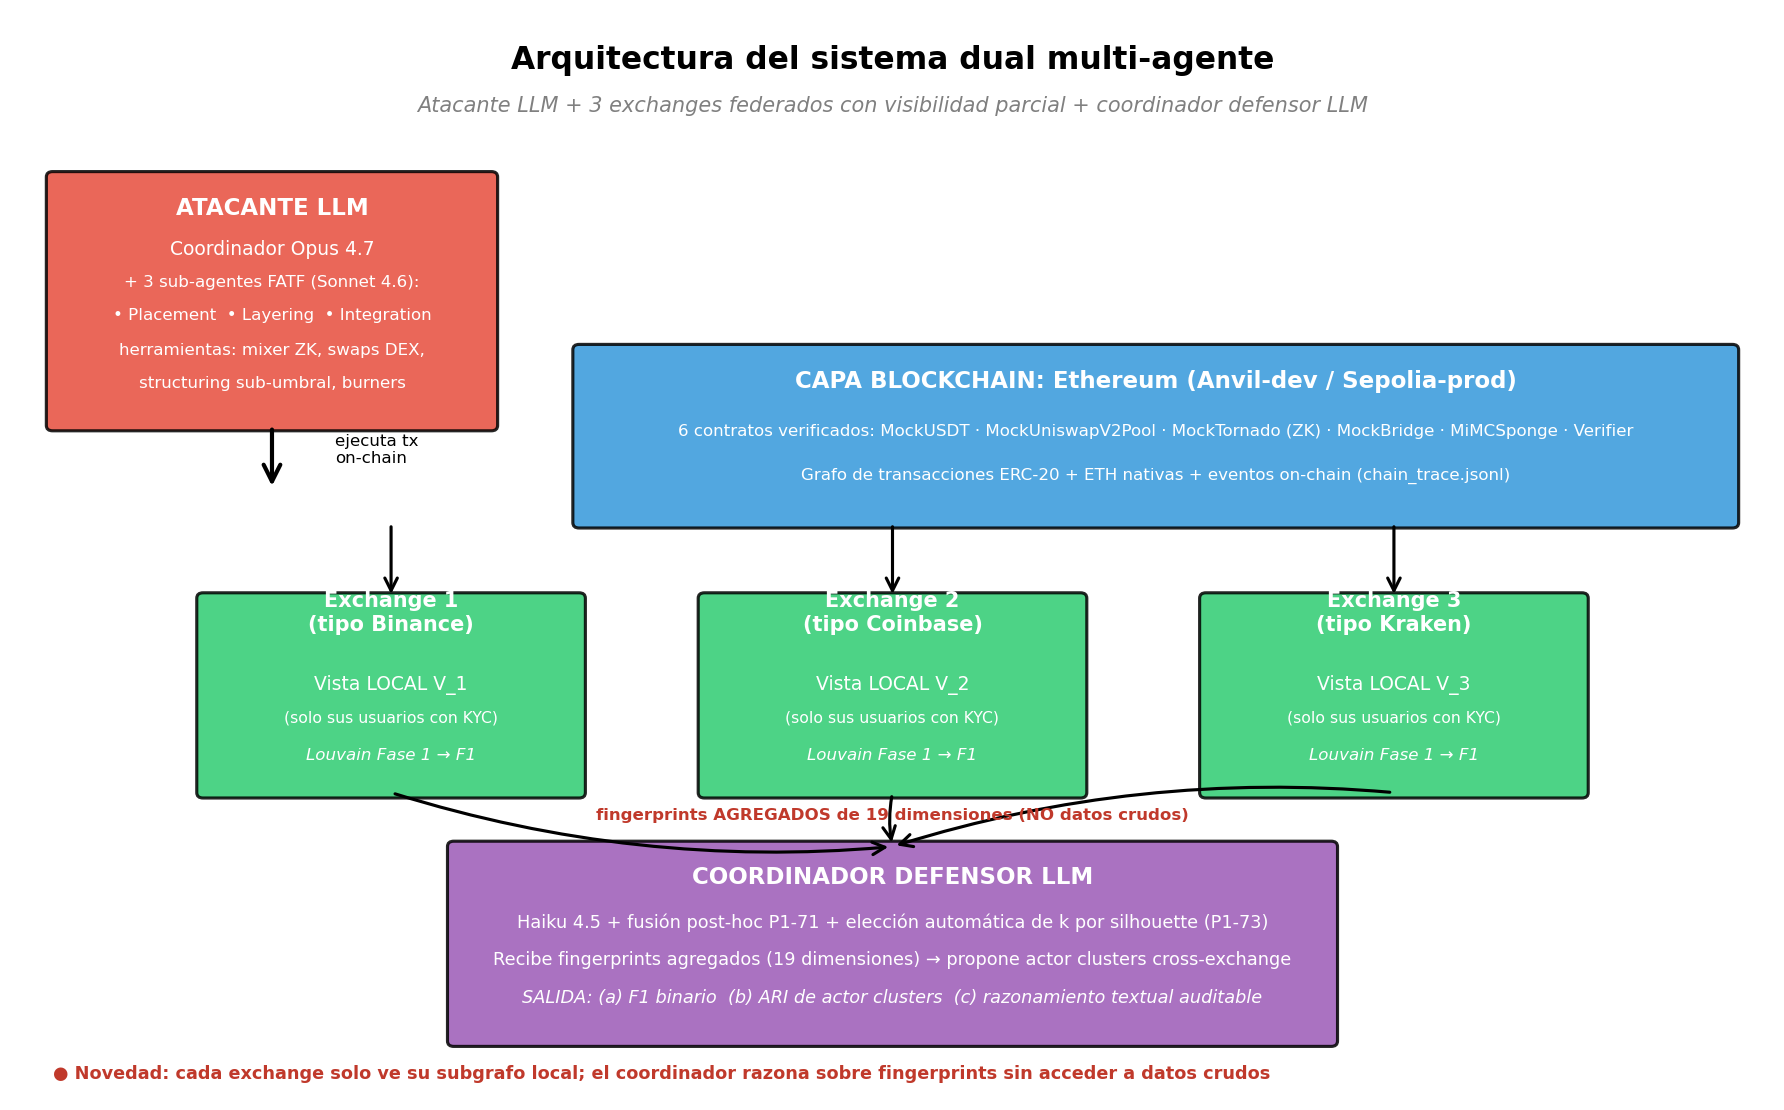
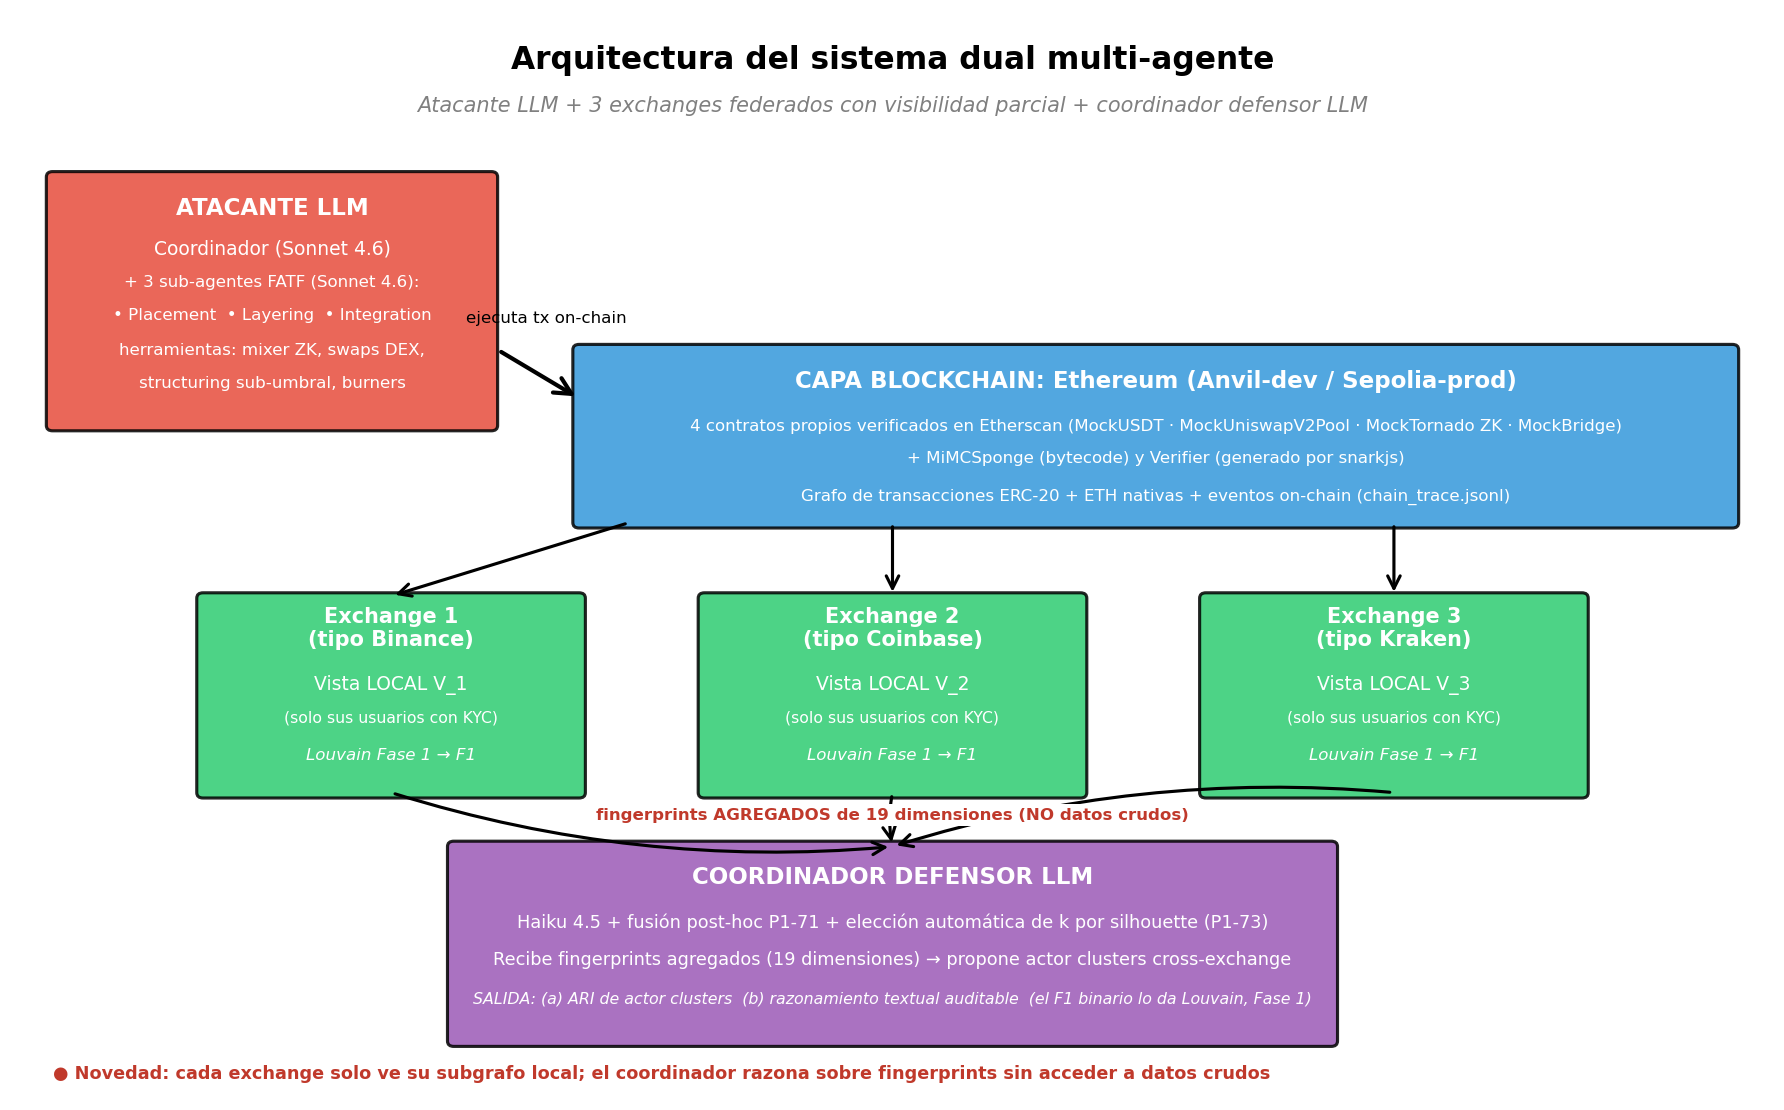
tfm: v3 — el atacante corrió sobre Sonnet 4.6 (no Opus), Powers of Tau local, Figuras 1-2 corregidas, ATTRIBUTIONS AMLWorld/AMLSim separados

diff --git a/scripts/figures/gen_architecture_fig_v2.py b/scripts/figures/gen_architecture_fig_v2.py
@@ -20,7 +20,7 @@ ax.text(7, 9.1, 'Atacante LLM + 3 exchanges federados con visibilidad parcial + 
 att = FancyBboxPatch((0.3, 6.2), 3.5, 2.3, boxstyle="round,pad=0.05", facecolor=c_attacker, edgecolor='black', linewidth=1.5, alpha=0.85)
 ax.add_patch(att)
 ax.text(2.05, 8.15, 'ATACANTE LLM', ha='center', fontsize=11, fontweight='bold', color='white')
-ax.text(2.05, 7.78, 'Coordinador Opus 4.7', ha='center', fontsize=9, color='white')
+ax.text(2.05, 7.78, 'Coordinador (Sonnet 4.6)', ha='center', fontsize=9, color='white')
 ax.text(2.05, 7.48, '+ 3 sub-agentes FATF (Sonnet 4.6):', ha='center', fontsize=8, color='white')
 ax.text(2.05, 7.18, '• Placement  • Layering  • Integration', ha='center', fontsize=8, color='white')
 ax.text(2.05, 6.85, 'herramientas: mixer ZK, swaps DEX,', ha='center', fontsize=8, color='white')
@@ -28,29 +28,31 @@ ax.text(2.05, 6.55, 'structuring sub-umbral, burners', ha='center', fontsize=8, 
 chain = FancyBboxPatch((4.5, 5.3), 9.2, 1.6, boxstyle="round,pad=0.05", facecolor=c_chain, edgecolor='black', linewidth=1.5, alpha=0.85)
 ax.add_patch(chain)
 ax.text(9.1, 6.55, 'CAPA BLOCKCHAIN: Ethereum (Anvil-dev / Sepolia-prod)', ha='center', fontsize=11, fontweight='bold', color='white')
-ax.text(9.1, 6.1, '6 contratos verificados: MockUSDT · MockUniswapV2Pool · MockTornado (ZK) · MockBridge · MiMCSponge · Verifier',
-        ha='center', fontsize=8, color='white')
-ax.text(9.1, 5.7, 'Grafo de transacciones ERC-20 + ETH nativas + eventos on-chain (chain_trace.jsonl)', ha='center', fontsize=8, color='white')
-ax.add_patch(FancyArrowPatch((2.05, 6.2), (2.05, 5.6), arrowstyle='->', mutation_scale=20, color='black', linewidth=2))
-ax.text(2.55, 5.85, 'ejecuta tx\non-chain', fontsize=8, color='black')
+ax.text(9.1, 6.15, '4 contratos propios verificados en Etherscan (MockUSDT · MockUniswapV2Pool · MockTornado ZK · MockBridge)', ha='center', fontsize=8, color='white')
+ax.text(9.1, 5.85, '+ MiMCSponge (bytecode) y Verifier (generado por snarkjs)', ha='center', fontsize=8, color='white')
+ax.text(9.1, 5.5, 'Grafo de transacciones ERC-20 + ETH nativas + eventos on-chain (chain_trace.jsonl)', ha='center', fontsize=8, color='white')
+ax.add_patch(FancyArrowPatch((3.85, 6.9), (4.5, 6.45), arrowstyle='->', mutation_scale=20, color='black', linewidth=2))
+ax.text(3.6, 7.15, 'ejecuta tx on-chain', fontsize=8, color='black', ha='left')
 names = ['Exchange 1\n(tipo Binance)', 'Exchange 2\n(tipo Coinbase)', 'Exchange 3\n(tipo Kraken)']
 xs = [1.5, 5.5, 9.5]
 for i, (name, xpos) in enumerate(zip(names, xs)):
     ax.add_patch(FancyBboxPatch((xpos, 2.8), 3, 1.8, boxstyle="round,pad=0.05", facecolor=c_exchange, edgecolor='black', linewidth=1.5, alpha=0.85))
-    ax.text(xpos + 1.5, 4.3, name, ha='center', fontsize=10, fontweight='bold', color='white')
+    ax.text(xpos + 1.5, 4.52, name, ha='center', va='top', fontsize=10, fontweight='bold', color='white')
     ax.text(xpos + 1.5, 3.75, f'Vista LOCAL V_{i + 1}', ha='center', fontsize=9, color='white')
     ax.text(xpos + 1.5, 3.45, '(solo sus usuarios con KYC)', ha='center', fontsize=7.5, color='white')
     ax.text(xpos + 1.5, 3.1, 'Louvain Fase 1 → F1', ha='center', fontsize=8, color='white', style='italic')
-    ax.add_patch(FancyArrowPatch((xpos + 1.5, 5.3), (xpos + 1.5, 4.6), arrowstyle='->', mutation_scale=15, color='black', linewidth=1.5))
+    x0 = max(xpos + 1.5, 4.9)   # the chain box starts at x=4.5: exchange 1 gets a diagonal arrow from its left edge
+    ax.add_patch(FancyArrowPatch((x0, 5.3), (xpos + 1.5, 4.62), arrowstyle='->', mutation_scale=15, color='black', linewidth=1.5))
 coord = FancyBboxPatch((3.5, 0.5), 7, 1.8, boxstyle="round,pad=0.05", facecolor=c_coord, edgecolor='black', linewidth=1.5, alpha=0.85)
 ax.add_patch(coord)
 ax.text(7, 1.95, 'COORDINADOR DEFENSOR LLM', ha='center', fontsize=11, fontweight='bold', color='white')
 ax.text(7, 1.55, 'Haiku 4.5 + fusión post-hoc P1-71 + elección automática de k por silhouette (P1-73)', ha='center', fontsize=8.5, color='white')
 ax.text(7, 1.2, 'Recibe fingerprints agregados (19 dimensiones) → propone actor clusters cross-exchange', ha='center', fontsize=8.5, color='white')
-ax.text(7, 0.85, 'SALIDA: (a) F1 binario  (b) ARI de actor clusters  (c) razonamiento textual auditable', ha='center', fontsize=8.5, color='white', style='italic')
+ax.text(7, 0.85, 'SALIDA: (a) ARI de actor clusters  (b) razonamiento textual auditable  (el F1 binario lo da Louvain, Fase 1)', ha='center', fontsize=7.6, color='white', style='italic')
 for xpos in xs:
-    ax.add_patch(FancyArrowPatch((xpos + 1.5, 2.8), (7, 2.3), arrowstyle='->', mutation_scale=15, color='black', linewidth=1.5, connectionstyle="arc3,rad=0.1"))
-ax.text(7, 2.55, 'fingerprints AGREGADOS de 19 dimensiones (NO datos crudos)', ha='center', fontsize=8, color='#c0392b', fontweight='bold')
+    ax.add_patch(FancyArrowPatch((xpos + 1.5, 2.8), (7, 2.3), arrowstyle='->', mutation_scale=15, color='black', linewidth=1.5, connectionstyle="arc3,rad=0.1", zorder=2))
+ax.text(7, 2.55, 'fingerprints AGREGADOS de 19 dimensiones (NO datos crudos)', ha='center', fontsize=8, color='#c0392b', fontweight='bold', zorder=5,
+        bbox=dict(facecolor='white', edgecolor='none', pad=1.5))
 ax.text(0.3, 0.15, '● Novedad: cada exchange solo ve su subgrafo local; el coordinador razona sobre fingerprints sin acceder a datos crudos',
         fontsize=8.5, color='#c0392b', fontweight='bold')
 plt.tight_layout()
@@ -59,7 +61,7 @@ print('Wrote fig1_architecture_v2.png')
 
 # ================= FIGURA 2: flujo end-to-end (seed 803) =================
 fig, ax = plt.subplots(figsize=(13, 5), dpi=140)
-ax.set_xlim(0, 15); ax.set_ylim(0, 7); ax.axis('off')
+ax.set_xlim(-0.35, 15.35); ax.set_ylim(0, 7); ax.axis('off')
 ax.text(7.5, 6.7, 'Flujo end-to-end de una campaña atacante y su detección', ha='center', fontsize=14, fontweight='bold')
 ax.text(7.5, 6.35, 'Ejemplo: seed 803 (defi-exploit, 22,6 ETH, Sepolia real)', ha='center', fontsize=9, style='italic', color='gray')
 phases = [

diff --git a/ATTRIBUTIONS.md b/ATTRIBUTIONS.md
@@ -62,7 +62,8 @@ El *core* criptográfico se preserva con cambios mínimos (profundidad del árbo
 | **Elliptic++**     | Elmougy & Liu 2023, *Demystifying Fraudulent Transactions and Illicit Nodes in the Bitcoin Network*, arXiv 2306.06108 (KDD 2023)                                     | GitHub `git-disl/EllipticPlusPlus`                 | Sanity check del pipeline (RF/LR)         |
 | **EthereumHeist**  | Wu et al. 2023, *Toward Understanding Asset Flows in Crypto Money Laundering...*, IEEE TIFS 19: 1994-2009 (2024)                                                | Dropbox (enlace en el artículo)                    | Validación externa real                   |
 | **OpenAML v1**     | FINOS OpenAML v1 (DTCC AI Hackathon dataset), Linux Foundation                                                                                             | GitHub `finos-labs/dtcch-2025-OpenAML` (`Project_DTCC_AI_Hackathon/data/processed.csv`, 45 086 wallets) | Sanity check del pipeline (RF/LR)         |
-| **AMLWorld/AMLSim**| Altman et al. 2023, NeurIPS Datasets and Benchmarks                                                                                                        | GitHub `IBM/AMLSim`                                | Referenciado (no ejecutado)               |
+| **AMLWorld**       | Altman et al. 2023, NeurIPS Datasets and Benchmarks (dataset sintético de IBM, sucesor de AMLSim)                                                          | Kaggle `ealtman2019/ibm-transactions-for-anti-money-laundering-aml` | Referenciado (no ejecutado)               |
+| **AMLSim**         | Suzumura & Kanezashi 2021, simulador de transacciones AML basado en reglas (IBM)                                                                          | GitHub `IBM/AMLSim`                                | Referenciado (no ejecutado)               |
 
 **Datos de precios**: snapshots diarios de CoinGecko API pública gratuita, cacheados en `data/prices/*.csv` para reproducibilidad.
 
